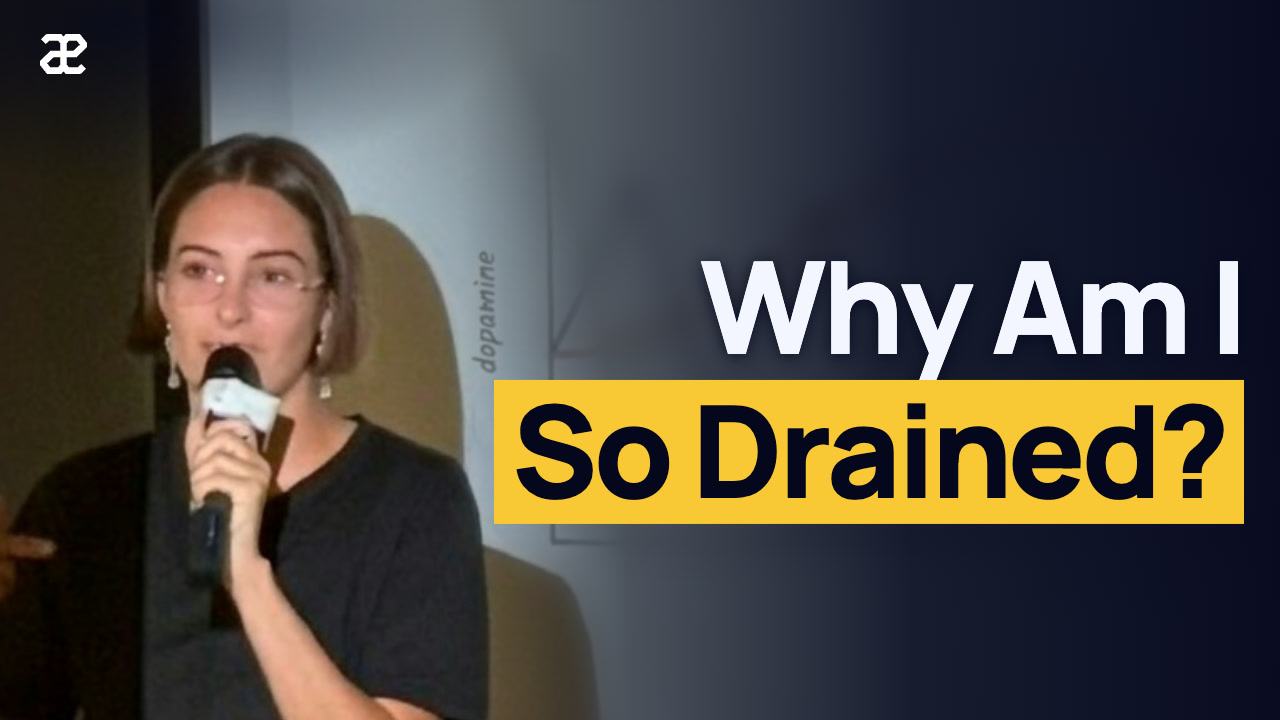
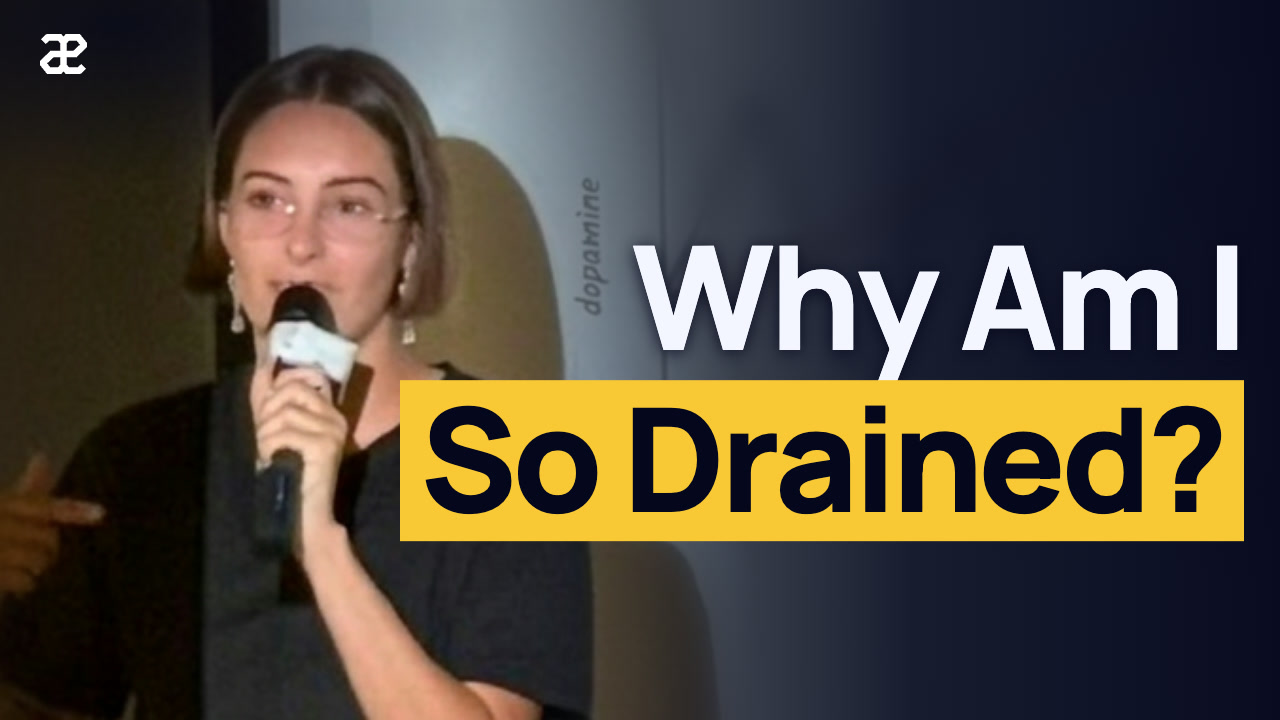
Thumbnail layout: text first, then the head centred in the gap it leaves
The hook is set as large as fits in two thirds of the width. The head is then
centred between the frame edge and the lines level with it, as large as the
gap allows with equal padding, and high in the frame. Text may cross the body,
never the head.

diff --git a/scripts/thumbnail.html b/scripts/thumbnail.html
@@ -14,7 +14,7 @@
   /* Centred a little below the middle: clear of the signature above and of
      YouTube's duration badge in the bottom-right corner. */
   .hook { position: absolute; top: 53%; transform: translateY(-50%); display: flex; flex-direction: column; gap: 0.08em;
-          font: 800 176px/1.02 Manrope, sans-serif; letter-spacing: -0.03em; white-space: nowrap; }
+          font: 800 230px/1.02 Manrope, sans-serif; letter-spacing: -0.03em; white-space: nowrap; }
   .right .hook { left: 36px; align-items: flex-start; }
   .left .hook { right: 36px; align-items: flex-end; }
   .hook .hl { background: var(--yellow); color: var(--navy); padding: 0.03em 0.14em 0.07em; text-shadow: none; }
@@ -26,21 +26,38 @@
 const CFG = /*CFG*/null, W = 1280, H = 720;
 const clamp = (v, a, b) => Math.max(a, Math.min(b, v));
 
-function render(img, sharp) {
+// The layout is decided in this order:
+//   1. The hook is set as large as fits (fitHook).
+//   2. The head goes in the gap the hook leaves at the top of the frame:
+//      centred between the frame edge and the hook's lines at head height,
+//      as large as that gap allows with equal padding either side, and high,
+//      so more of the body shows. The hook may overlap the body, never the head.
+// `face.h` is measured by eye and hair is wider than a face, so the head is
+// given a box as wide as it is tall, with padding around it.
+const PAD = 46, TOP = 52, MAX_HEAD = 0.42 * H, MIN_HEAD = 0.3 * H, HEAD_ASPECT = 1.0;
+function placeHead(left, lines) {
+  let head = 0.4 * H, gap = 0;
+  for (let i = 0; i < 3; i++) {  // the gap depends on which lines the head is level with
+    const level = lines.filter((b) => b.top < TOP + head + 12 && b.bottom > TOP);
+    const inner = level.length ? (left ? Math.min(...level.map((b) => b.left)) : Math.max(...level.map((b) => b.right)))
+                               : (left ? 0.5 * W : 0.5 * W);
+    gap = clamp(left ? inner : W - inner, 0.2 * W, 0.5 * W);
+    head = clamp((gap - 2 * PAD) / HEAD_ASPECT, MIN_HEAD, MAX_HEAD);
+  }
+  return { head, cx: left ? gap / 2 : W - gap / 2, top: TOP };
+}
+
+function render(img, sharp, left, at) {
   const ctx = document.getElementById('c').getContext('2d');
-  // The speaker keeps their side of the photo and the hook takes the other.
-  // Never mirror the photo: slides and name tags have text.
-  const left = CFG.face.x < img.width / 2;
-  // Head about 37% of the frame height, capped so a small face is not
-  // enlarged into mush.
+  // Capped so a small face is not enlarged into mush.
   const cover = Math.max(W / img.width, H / img.height);
-  const s = Math.min(Math.max(cover, 268 / CFG.face.h), cover * 4.3);
+  const s = Math.min(Math.max(cover, at.head / CFG.face.h), cover * 4.6);
   // The photo must reach the frame edge on the speaker's side. On the hook's
   // side it may stop short (a portrait photo is too narrow to fill the
   // frame with the speaker off-centre): the navy covers that side anyway.
-  const want = (left ? 0.19 : 0.81) * W - CFG.face.x * s;
+  const want = at.cx - CFG.face.x * s;
   const ox = left ? Math.min(want, 0) : Math.max(want, W - img.width * s);
-  const oy = clamp(0.38 * H - CFG.face.y * s, H - img.height * s, 0);
+  const oy = clamp(at.top + CFG.face.h * s / 2 - CFG.face.y * s, H - img.height * s, 0);
   const fx = ox + CFG.face.x * s, fy = oy + CFG.face.y * s, head = CFG.face.h * s;
   const draw = (c) => c.drawImage(img, ox, oy, img.width * s, img.height * s);
 
@@ -87,9 +104,6 @@ function render(img, sharp) {
   tg.addColorStop(0, 'rgba(5,7,30,0.75)'); tg.addColorStop(1, 'rgba(5,7,30,0)');
   ctx.fillStyle = tg; ctx.fillRect(0, 0, 520, 520); ctx.restore();
 
-  // Room for the hook: from its margin to the speaker.
-  const room = Math.max(430, left ? W - 36 - (fx + head * 0.92) : fx - head * 0.92 - 36);
-  return { side: left ? 'left' : 'right', room };
 }
 
 const esc = (t) => t.replace(/[&<>]/g, (c) => ({ '&': '&amp;', '<': '&lt;', '>': '&gt;' }[c]));
@@ -98,8 +112,10 @@ const load = (src) => new Promise((ok, no) => {
 });
 (async () => {
   const img = await load(CFG.photo), sharp = CFG.sharp ? await load(CFG.sharp.src) : null;
-  const r = render(img, sharp), stage = document.getElementById('stage');
-  stage.classList.add(r.side);
+  // The speaker keeps their side of the photo and the hook takes the other.
+  // Never mirror the photo: slides and name tags have text.
+  const left = CFG.face.x < img.width / 2;
+  document.getElementById('stage').classList.add(left ? 'left' : 'right');
   // The yellow block marks the words that carry the point: a *phrase* inside
   // a line, a whole line that starts with *, or else the last line.
   const any = CFG.hook.some((l) => l.includes('*'));
@@ -113,14 +129,15 @@ const load = (src) => new Promise((ok, no) => {
   await document.fonts.ready;
   const h = document.querySelector('.hook');
   let fs = parseFloat(getComputedStyle(h).fontSize);
-  // As large as fits: the width up to the speaker, and the height between
-  // the logo above and the duration badge's corner below.
-  const tall = () => h.getBoundingClientRect().height > 560;
-  while ((h.scrollWidth > r.room || tall()) && fs > 56) h.style.fontSize = (fs -= 2) + 'px';
+  // As large as fits: up to two thirds of the width, which leaves the head its gap,
+  // and the height between the logo above and the duration badge below.
+  const over = () => h.scrollWidth > 0.66 * W || h.getBoundingClientRect().height > 560;
+  while (over() && fs > 56) h.style.fontSize = (fs -= 2) + 'px';
+  if (over()) throw new Error('the hook is too long to fit: shorten it');
   // On the right, keep the text above YouTube's duration badge.
   const box = h.getBoundingClientRect();
-  if (r.side === 'left' && box.bottom > 606) h.style.top = (606 - box.height / 2) + 'px';
-  if (h.scrollWidth > r.room) throw new Error('the hook is too wide to clear the speaker: shorten it');
+  if (left && box.bottom > 606) h.style.top = (606 - box.height / 2) + 'px';
+  render(img, sharp, left, placeHead(left, [...h.children].map((l) => l.getBoundingClientRect())));
   if (!document.fonts.check('800 20px Manrope')) throw new Error('the fonts did not load');
   document.title = 'ready ' + Math.round(fs);
 })().catch((e) => { document.title = e.message; });

diff --git a/scripts/thumbnail.py b/scripts/thumbnail.py
@@ -7,12 +7,15 @@
     python3 scripts/thumbnail.py <event>                    # re-render every talk that has one
     python3 scripts/thumbnail.py <event> --upload           # ...and set them on the videos
 
-The design is scripts/thumbnail.html. Its inputs are recorded under "thumbnail"
+The design is scripts/thumbnail.html: the hook is set as large as fits, then
+the speaker's head is centred in the gap it leaves at the top of the frame, as
+large as that gap allows. Its inputs are recorded under "thumbnail"
 in the talk's talk.json, so a thumbnail can be rendered again:
 
     photo   the speaker photo, copied to <media>/<date>/thumbnails/ (never in git)
-    face    x,y,h in that copy's pixels: the centre of the face and the head's
-            height, chin to top of hair. Look at the photo to find them.
+    face    x,y,h in that copy's pixels: the centre of the head and its
+            height, chin to top of hair (include a bun or a cap). Look at the
+            photo to find them. If the text touches the head, h is too small.
     hook    one to three short lines, "|" between them, five words at most:
             what the talk is about, readable with no title beside it. Short
             lines are set larger. The yellow block goes on the last line,

diff --git a/.claude/skills/thumbnail-critic/SKILL.md b/.claude/skills/thumbnail-critic/SKILL.md
@@ -146,11 +146,14 @@ Judge it as a designer would, independent of the hook.
   as a whole phrase: "Phone Calls", "Lose Crypto", "Marketing". It never
   sits on a connective or half a phrase ("Focus, Not", "Per", "Calls").
 
-- **Uses the frame.** The speaker is large and pushed toward their edge (head
-  about 37% of the frame height), and the hook fills the rest: little dead
-  navy, text close to the speaker without touching the face. Crowded beats
-  empty. Name any thumbnail where the speaker could move further out or the
-  text could be larger.
+- **Uses the frame.** Cover the photo and look at the text alone: there is
+  one obvious place for a head, the gap between the frame edge and the lines
+  of text at the top. The head should sit in the middle of that gap, as large
+  as it allows with equal padding on both sides, and high in the frame so
+  more of the body shows. Text may cross the body; it never touches the head.
+  The text itself is as large as it can be. Crowded beats empty. Name any
+  thumbnail where the head is off-centre in its gap, clipped at the top,
+  touched by text, or smaller than the gap allows.
 - **Even across the set.** On the contact sheet, the hooks should look close
   in type size and the photos close in brightness. Name any thumbnail whose
   text is clearly smaller or whose speaker is clearly darker than the rest;
